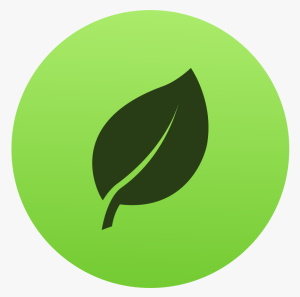
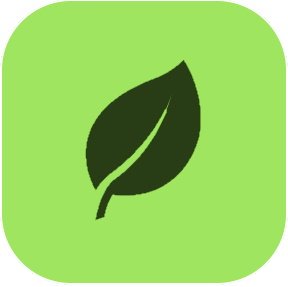
完成社区版块图标设计。

diff --git a/app/views/index.scala.html b/app/views/index.scala.html
@@ -121,7 +121,7 @@
           }
           <dd>
             <a href="/board/all">
-              <img src="/assets/images/board/more.jpg" width="50" height="50">
+              <img src="/assets/images/board/more.png" width="50" height="50">
               <i>更多版块</i>
             </a>
           </dd>
